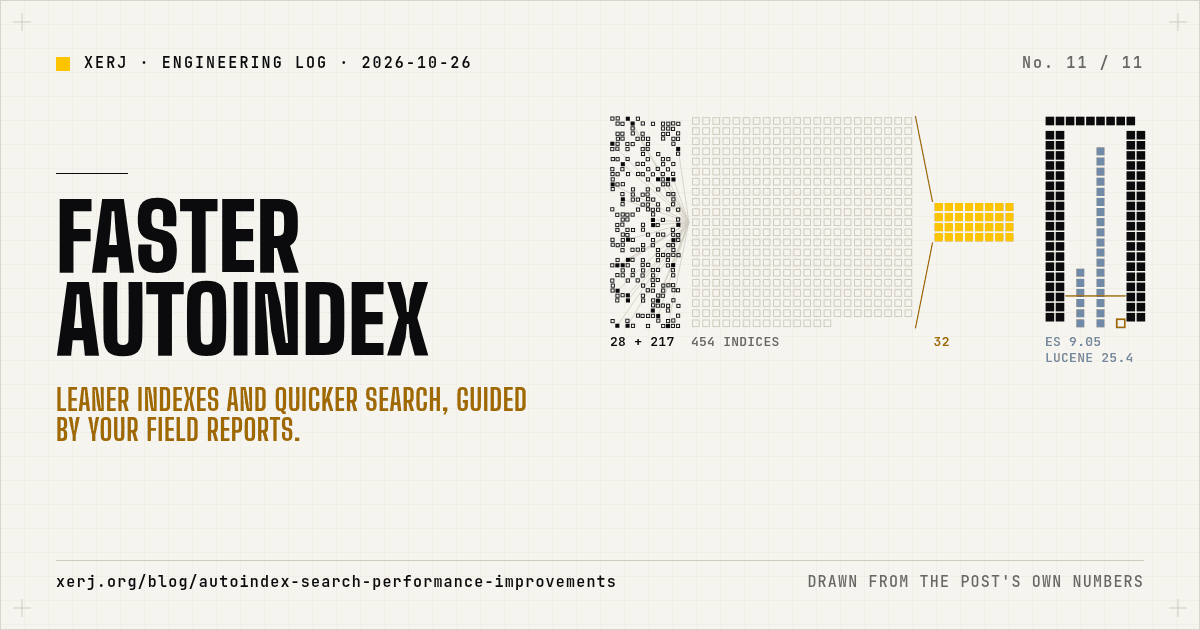
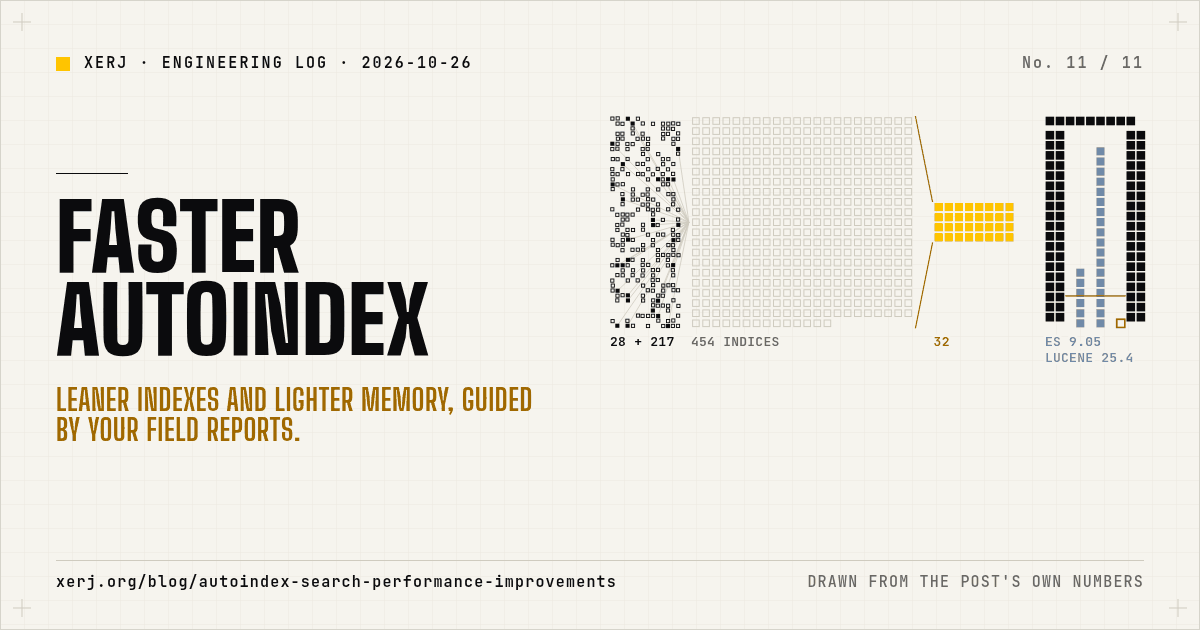
blog: soften the Elasticsearch size promise; OG subtitle leads with lighter memory

Changed region(s): [[0.2158, 0.6032, 0.4625, 0.6635]]

diff --git a/landing/blog/autoindex-search-performance-improvements.html b/landing/blog/autoindex-search-performance-improvements.html
@@ -237,7 +237,7 @@
   <div class="kicker">03 · WHY THIS MATTERS TO US</div>
   <h2 class="scene">Speed and size are the promise</h2>
 
-  <p>XERJ promises search for agents that ingests in the same league as Lucene, keeps its index smaller on disk than Elasticsearch, and is light enough to run beside the agent on a laptop or in a sandbox. Every improvement in this post serves that promise: ingest that keeps pace, answers in milliseconds, and memory that stays within its cap.</p>
+  <p>XERJ promises search for agents that ingests in the same league as Lucene, aims to keep its index smaller on disk than Elasticsearch, and is light enough to run beside the agent on a laptop or in a sandbox. Every improvement in this post serves that promise: ingest that keeps pace, answers in milliseconds, and memory that stays within its cap.</p>
 
   <p>So we measured the bar. On the same 1 GB corpus and the same 4 vCPU, 16 GB runner, Elasticsearch 9.5.5 ingested 9.05 MiB/s into an index 1.42x the size of its source. Lucene 10.5.1 ingested 25.4 MiB/s with stored fields at 0.78x, and 36.0 MiB/s at 0.30x without them.</p>
 

diff --git a/scripts/seo/blog_covers/covers.py b/scripts/seo/blog_covers/covers.py
@@ -117,7 +117,7 @@ POSTS: list[dict[str, str]] = [
          og_alt="Cover: “rc.99” in display type beside the post’s square-matrix art, labelled 8 GiB and 2 GiB. The art: eight large squares for the 8 GiB tier, the first two yellow for the 2 GiB memtable budget, beside eight small squares for the 8 MiB document ceiling and one outlined square for JSON streamed past 64 MiB"),
     dict(slug="autoindex-search-performance-improvements", date="2026-10-26", motif="fieldgate",
          title="Faster autoindex",
-         subtitle="Leaner indexes and quicker search, guided by your field reports.",
+         subtitle="Leaner indexes and lighter memory, guided by your field reports.",
          alt="Cover art: 28 filled squares and 217 small empty rings scattered on grid paper, the filled ones joined by hairlines to a wide block of 454 empty cells, beside 32 yellow cells at the same pitch, then a gate of ink posts around two grey-blue columns and one empty yellow cell at its base",
          og_alt="Cover: “Faster autoindex” in display type beside the post’s square-matrix art, labelled 28 people + 217 agent reports, 454 indices, 32, and ES 9.05 · Lucene 25.4 MiB/s. The art: 28 filled squares and 217 small empty rings scattered on grid paper, the filled ones joined by hairlines to a wide block of 454 empty cells, beside 32 yellow cells at the same pitch, then a gate of ink posts around two grey-blue columns and one empty yellow cell at its base"),
 ]
